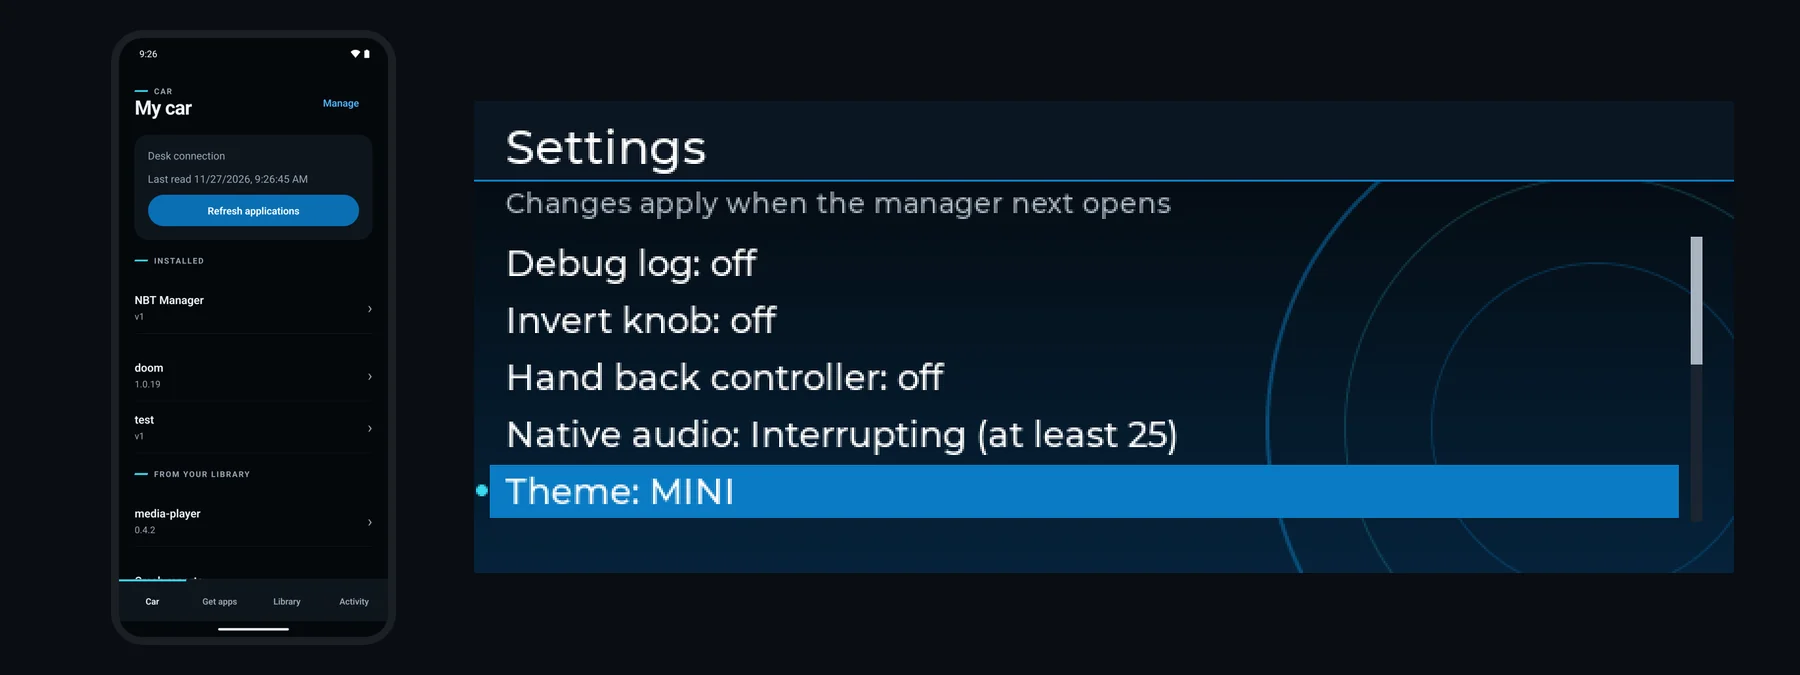
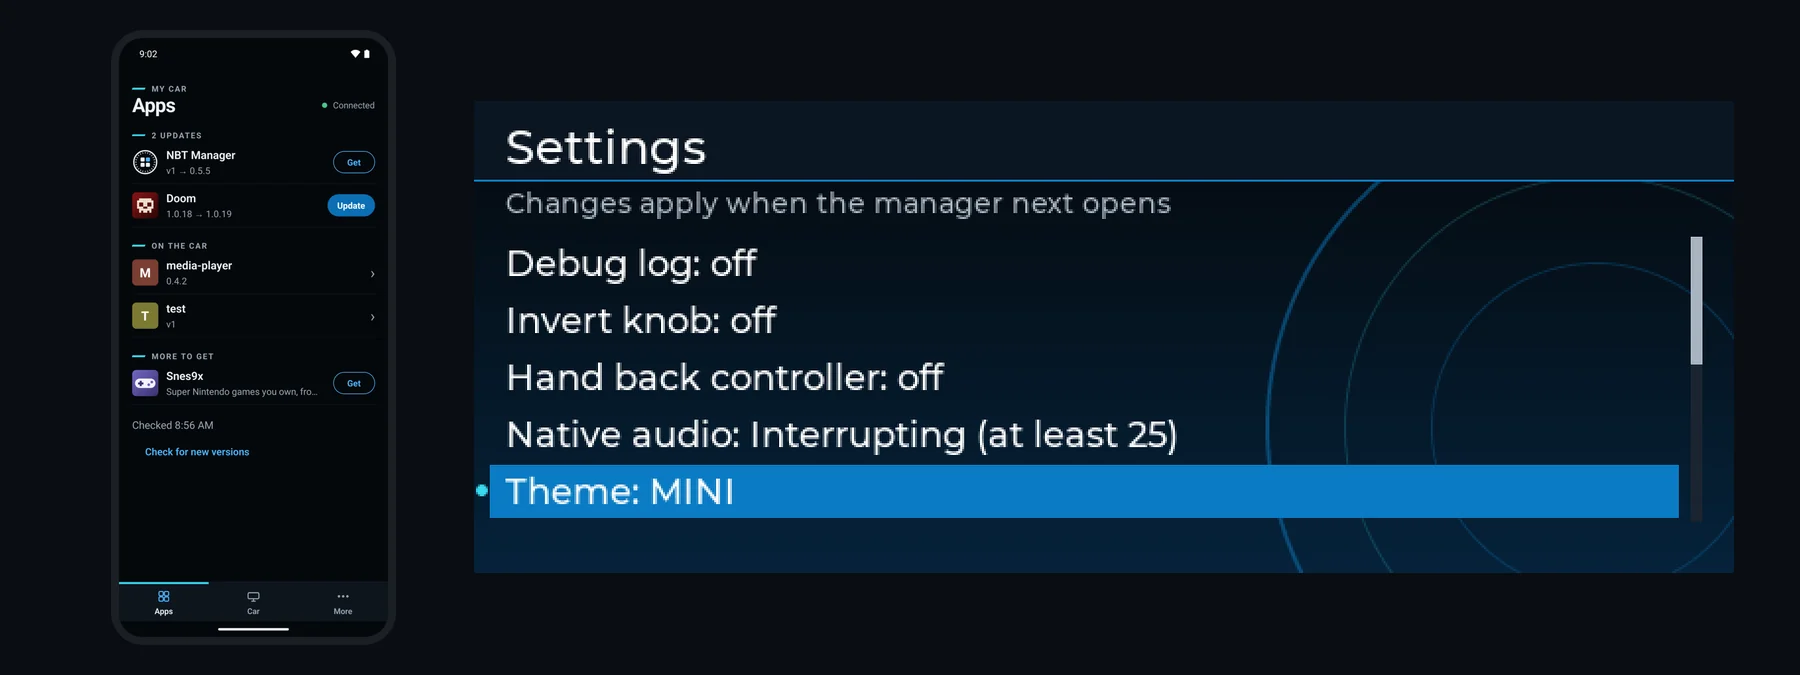
Landing page: the install clip and the theme slides show the phone app 0.2
The phone side of both is captured again from the app's three-tab look
(Apps, Car, More). tools/phone_car.py composes them from the phone app's and
the manager's captures.

diff --git a/tools/phone_car.py b/tools/phone_car.py
@@ -1,0 +1,113 @@
+#!/usr/bin/env python3
+# SPDX-License-Identifier: MPL-2.0
+"""The landing page's phone-beside-car images, composed from the two repositories' captures.
+
+    python3 -I tools/phone_car.py themes <phone folder> <car folder>
+    python3 -I tools/phone_car.py install <mobile-install.webp> <manager-install.gif>
+
+themes   site/assets/theme-{bmw,mini,supra}.webp from <phone folder>/theme-<name>.png (the phone
+         app's `scripts/capture_screens.py --themes`) and <car folder>/<name>-settings.png (the
+         manager's simulator with NBT_THEME=<name>, a 1280x480 still of Settings).
+install  site/assets/phone-install.webp and its still from the two repositories' install clips
+         (`docs/assets/`), each warped in time so that both show the same moment. After a new
+         recording, set PHONE and CAR again: --sheet <png> lays a clip out over time.
+
+Needs Pillow.
+"""
+import argparse
+import bisect
+from pathlib import Path
+
+from PIL import Image, ImageDraw, ImageSequence
+
+ASSETS = Path(__file__).resolve().parents[1] / 'site' / 'assets'
+BACKGROUND = (10, 13, 18)
+# (second of the result, second of the recording). The result: the tap at 1.6, the car's review
+# from 2.3, the driver's confirmation at 4.9, the result at 9, then the phone's page and its list
+# (two cuts in its recording).
+PHONE = [(0, 2.2), (1.6, 3.8), (2.3, 4.5), (4.9, 7.0), (9.0, 9.2), (9.3, 9.5), (10.7, 10.9), (10.701, 14.8),
+         (11.7, 15.8), (11.701, 18.3), (13.5, 20.1)]
+CAR = [(0, 0.0), (2.3, 1.25), (2.4, 1.35), (4.9, 3.9), (9.0, 8.0), (10.7, 9.7), (13.5, 11.0)]
+STILL_AT = 10.4
+
+
+def themes(phone, car):
+    width, height, phone_h, car_size = 1800, 675, 615, (1260, 472)
+    for theme in ('bmw', 'mini', 'supra'):
+        shot = Image.open(phone / f'theme-{theme}.png').convert('RGBA')
+        shot = shot.resize((shot.width * phone_h // shot.height, phone_h), Image.LANCZOS)
+        screen = Image.open(car / f'{theme}-settings.png').convert('RGB').resize(car_size, Image.LANCZOS)
+        slide = Image.new('RGB', (width, height), BACKGROUND)
+        slide.paste(shot, (111, (height - phone_h) // 2), shot)
+        slide.paste(screen, (474, (height - car_size[1]) // 2))
+        slide.save(ASSETS / f'theme-{theme}.webp', quality=86, method=6)
+
+
+def load(path, size=None):
+    times, frames, second = [], [], 0.0
+    for frame in ImageSequence.Iterator(Image.open(path)):
+        picture = frame.convert('RGBA')
+        times.append(second)
+        frames.append(picture.resize(size, Image.LANCZOS) if size else picture)
+        second += frame.info.get('duration', 83) / 1000.0
+    return times, frames, second
+
+
+def at(clip, second):
+    return clip[1][max(0, bisect.bisect_right(clip[0], second) - 1)]
+
+
+def warp(points, second):
+    for (out0, in0), (out1, in1) in zip(points, points[1:]):
+        if out0 <= second <= out1:
+            return in0 + (in1 - in0) * (second - out0) / (out1 - out0)
+    return points[-1][1]
+
+
+def install(phone_path, car_path):
+    phone, car = load(phone_path, (190, 410)), load(car_path, (840, 315))
+    step, frames, second = 1 / 6.0, [], 0.0
+    while second <= PHONE[-1][0] + 1e-6:
+        frame = Image.new('RGB', (1200, 450), BACKGROUND)
+        shot = at(phone, warp(PHONE, second))
+        frame.paste(shot, (74, 20), shot)
+        frame.paste(at(car, warp(CAR, second)).convert('RGB'), (316, 67))
+        frames.append(frame)
+        second += step
+    frames[0].save(ASSETS / 'phone-install.webp', save_all=True, append_images=frames[1:],
+                   duration=int(step * 1000), loop=0, quality=62, method=4)
+    frames[int(STILL_AT / step)].save(ASSETS / 'phone-install-still.webp', quality=84, method=6)
+
+
+def sheet(path, target, step=0.5, columns=10, height=240):
+    """One picture of `path` every `step` seconds, each under its second."""
+    clip = load(path)
+    width = clip[1][0].width * height // clip[1][0].height
+    count = int(clip[2] / step) + 1
+    page = Image.new('RGB', (columns * (width + 4), -(-count // columns) * (height + 16)), (50, 50, 50))
+    draw = ImageDraw.Draw(page)
+    for n in range(count):
+        x, y = (n % columns) * (width + 4), (n // columns) * (height + 16)
+        picture = at(clip, n * step).resize((width, height))
+        page.paste(picture, (x, y + 14), picture)
+        draw.text((x + 2, y + 1), f'{n * step:.1f}', fill=(255, 255, 0))
+    page.save(target)
+
+
+def main():
+    parser = argparse.ArgumentParser(description=__doc__, formatter_class=argparse.RawDescriptionHelpFormatter)
+    parser.add_argument('what', choices=('themes', 'install'))
+    parser.add_argument('phone', type=Path)
+    parser.add_argument('car', type=Path)
+    parser.add_argument('--sheet', type=Path, help='install: only lay the phone clip out over time, here')
+    args = parser.parse_args()
+    if args.what == 'themes':
+        themes(args.phone, args.car)
+    elif args.sheet:
+        sheet(args.phone, args.sheet)
+    else:
+        install(args.phone, args.car)
+
+
+if __name__ == '__main__':
+    main()

diff --git a/README.md b/README.md
@@ -11,6 +11,8 @@ The landing page and the application catalog the phone app reads:
   application cards (the featured ones first, the others A to Z), NBT Manager's release and the
   update date: the same file as the phone app.
 - `tools/share-card.html`: the link preview, `site/assets/share.png` (the command is in the file).
+- `tools/phone_car.py`: the phone beside the car's screen (`theme-*.webp`, `phone-install.webp`),
+  from the phone app's and the manager's captures.
 - `tools/render_site.py`: `site/` plus `catalog.json`.
 - `.github/workflows/pages.yml`: on push, every 30 minutes and by hand. GitHub pauses the schedule
   after 60 days without a commit here: re-enable it under Actions.
